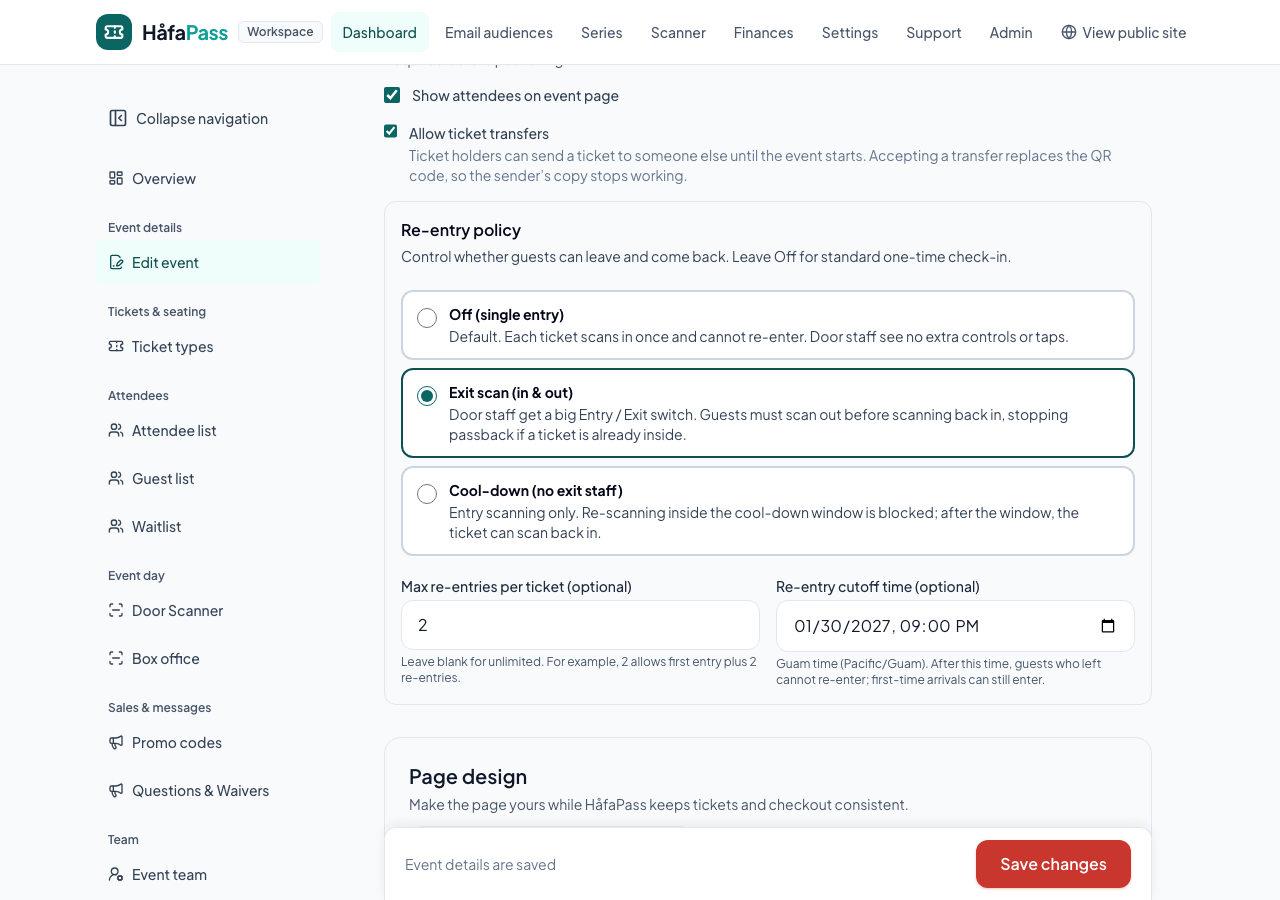
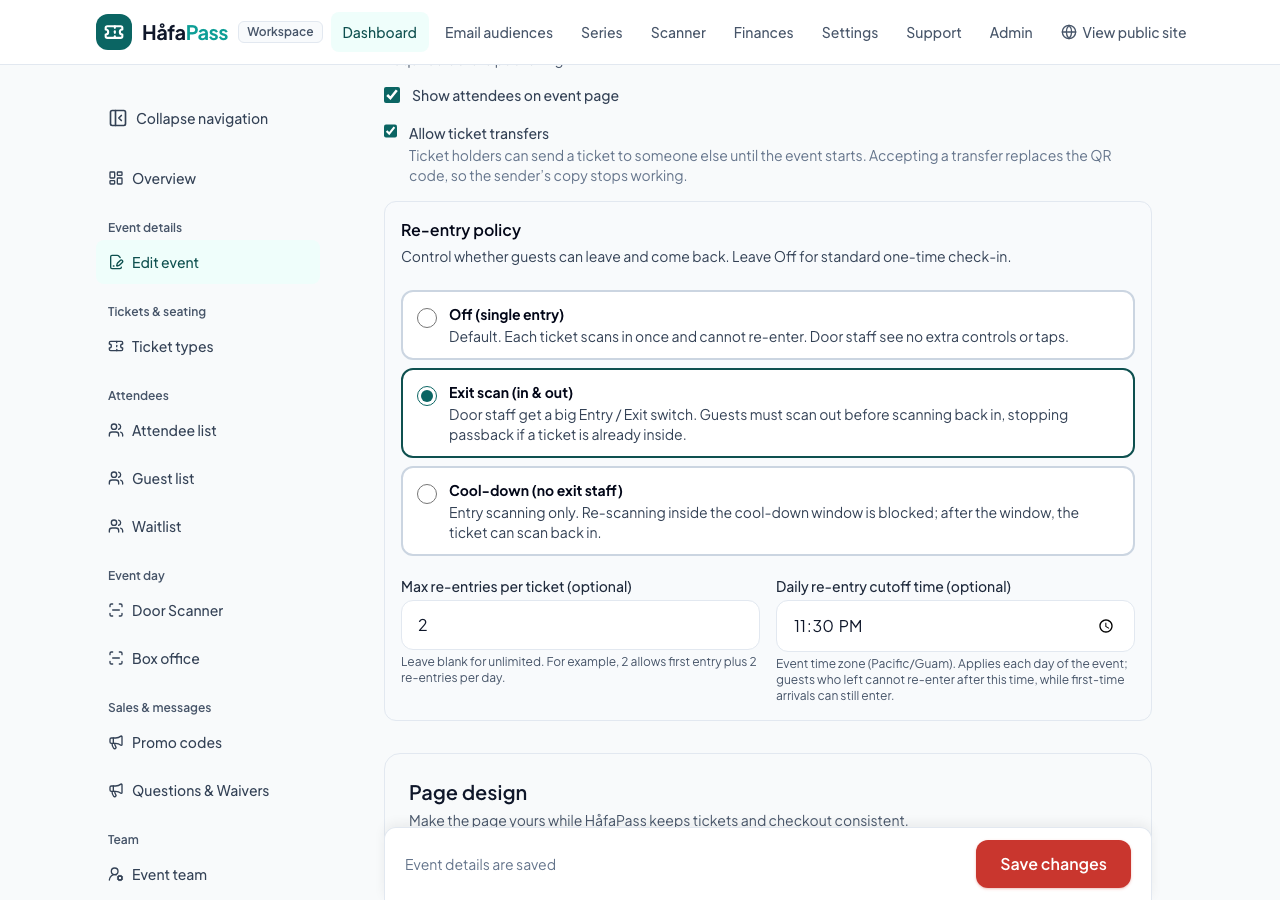
Finish PR #242 round-1 fixes: PG16 schema dump, sanitized SQL, refreshed QA screenshots

Changed region(s): [[0.5938, 0.6222, 0.875, 0.7778], [0.3125, 0.84, 0.7188, 0.9333]]

diff --git a/hafapass_frontend/src/pages/dashboard/ScannerPage.reEntry.test.jsx b/hafapass_frontend/src/pages/dashboard/ScannerPage.reEntry.test.jsx
@@ -244,6 +244,7 @@ describe('ScannerPage re-entry UX', () => {
   })
 
   it('shows live headcount formatted cleanly (including 9,999), per-day pills, and lead override for scanner leads', async () => {
+    const today = serviceDayString(Date.now(), { timezone: 'Pacific/Guam' })
     const manifest = await signedManifest(eventId, [{
       ticket_id: 201, state: 'admitted', occupancy_state: 'inside',
       attendee_name: 'Aleksandra Wiśniewska-Kowalczyk', ticket_type: '2-Day Pass',
@@ -262,8 +263,8 @@ describe('ScannerPage re-entry UX', () => {
           counts: {
             admitted: 9999, remaining: 1, conflicts: 1, rejected: 0, live_headcount: 9999,
             headcount_by_day: [
-              { day: '2027-01-30', label: 'Jan 30, 2027', headcount: 4200 },
-              { day: '2027-01-31', label: 'Jan 31, 2027', headcount: 9999 },
+              { day: '2026-01-30', label: 'Jan 30, 2026', entries: 4200, headcount: 4200 },
+              { day: today, label: 'Today', entries: 9999, headcount: 9999 },
             ],
           },
           flagged_conflicts: [{
@@ -290,7 +291,8 @@ describe('ScannerPage re-entry UX', () => {
 
     render(<ScannerPage />)
     expect(await screen.findByTestId('scanner-live-headcount')).toHaveTextContent('9,999')
-    expect(screen.getByText(/Jan 30, 2027: 4,200 entered/)).toBeInTheDocument()
+    expect(screen.getByText(/Jan 30, 2026: 4,200 entered/)).toBeInTheDocument()
+    expect(screen.getByText(/Today: 9,999 inside/)).toBeInTheDocument()
     expect(screen.getByText(/Flagged offline conflicts \(1\)/)).toBeInTheDocument()
 
     const user = userEvent.setup()
@@ -344,8 +346,9 @@ describe('ScannerPage re-entry UX', () => {
 
     render(<ScannerPage />)
     const tile = await screen.findByTestId('scanner-live-headcount')
-    expect(tile).toHaveTextContent('Entered')
-    expect(tile).not.toHaveTextContent('Inside now')
+    expect(tile).toHaveTextContent('42')
+    expect(tile.parentElement).toHaveTextContent('Entered')
+    expect(tile.parentElement).not.toHaveTextContent('Inside now')
 
     const user = userEvent.setup()
     await enterCode(user, 'qr-301', 'Check in ticket')

diff --git a/hafapass_frontend/e2e/demo-staff.spec.js b/hafapass_frontend/e2e/demo-staff.spec.js
@@ -26,6 +26,7 @@ test('box office demo completes cash and provides ticket delivery actions', asyn
   await page.getByRole('button', { name: 'Send tickets' }).click()
   await expect(page.getByText('Ticket email queued for player@example.invalid.')).toBeVisible()
 })
+
 for (const viewport of [{ width: 390, height: 844 }, { width: 1280, height: 900 }]) {
   test.describe(`demo staff screens at ${viewport.width}px`, () => {
     test.use({ viewport })

diff --git a/hafapass_frontend/src/ServiceCheck.accountTransition.test.jsx b/hafapass_frontend/src/ServiceCheck.accountTransition.test.jsx
@@ -129,6 +129,7 @@ describe('scanner authorization through actual service and auth boundaries', () 
       credential_hash: await sha256Hex('synthetic-private-qr'),
     }
     await saveVerifiedManifest(await signedManifest(eventId, [reEntryTicket], {
+      version: 2,
       schema_version: 2,
       event: { id: eventId, title: 'Re-entry outage check', timezone: 'Pacific/Guam', re_entry_mode: 'exit_scan' },
     }))

diff --git a/hafapass_frontend/src/demo/handlers/re-entry.js b/hafapass_frontend/src/demo/handlers/re-entry.js
@@ -65,7 +65,7 @@ function initReEntryState(state) {
     event101.re_entry_mode = 'exit_scan'
     event101.re_entry_max_count = 2
     event101.re_entry_cutoff_at = null
-    event101.re_entry_cutoff_time = '21:00'
+    event101.re_entry_cutoff_time = '23:30'
     event101.re_entry_cooldown_minutes = null
   }
   const event102 = staff.events.find(e => e.id === 102)

diff --git a/hafapass_api/app/services/admissions/re_entry_report.rb b/hafapass_api/app/services/admissions/re_entry_report.rb
@@ -57,137 +57,146 @@ module Admissions
       overall.merge(by_day: by_day).merge(policy_metadata)
     end
 
-    def sql_days(target_event, ticket_ids:, event_title:, zone:)
-      return [] if !ticket_ids.nil? && ticket_ids.empty?
+    BASE_SQL = <<~SQL
+      WITH relevant_actions AS (
+        SELECT
+          a.id,
+          a.ticket_id,
+          a.kind,
+          a.result,
+          a.reason_code,
+          a.occurred_at,
+          a.received_at,
+          COALESCE(
+            a.occupancy_day,
+            (((a.occurred_at AT TIME ZONE 'UTC') AT TIME ZONE :tz_name) - (:rollover_hours * INTERVAL '1 hour'))::date
+          ) AS day,
+          CASE
+            WHEN a.result = :accepted AND a.kind = :admit AND NOT EXISTS (
+              SELECT 1 FROM admission_actions rev
+              WHERE rev.reverses_action_id = a.id
+                AND rev.kind = :reverse
+                AND rev.result = :accepted
+            ) THEN 'inside'
+            WHEN a.result = :accepted AND a.kind = :exit_kind THEN 'outside'
+            WHEN a.result = :accepted AND a.kind = :override AND a.reason_code = 'lead_override_admitted' THEN 'inside'
+            WHEN a.result = :accepted AND a.kind = :override AND a.reason_code = 'lead_override_cleared' THEN 'outside'
+            ELSE NULL
+          END AS target_state
+        FROM admission_actions a
+        WHERE a.event_id = :event_id
+          %<ticket_clause>s
+      ),
+      state_steps AS (
+        SELECT
+          day,
+          occurred_at,
+          received_at,
+          id,
+          CASE
+            WHEN ticket_id IS NULL THEN 0
+            WHEN target_state = 'inside' AND COALESCE(
+              LAG(target_state) OVER (
+                PARTITION BY day, ticket_id
+                ORDER BY occurred_at ASC, received_at ASC, id ASC
+              ), 'outside'
+            ) <> 'inside' THEN 1
+            WHEN target_state = 'outside' AND COALESCE(
+              LAG(target_state) OVER (
+                PARTITION BY day, ticket_id
+                ORDER BY occurred_at ASC, received_at ASC, id ASC
+              ), 'outside'
+            ) = 'inside' THEN -1
+            ELSE 0
+          END AS delta
+        FROM relevant_actions
+        WHERE target_state IS NOT NULL
+      ),
+      running AS (
+        SELECT
+          day,
+          occurred_at,
+          received_at,
+          id,
+          SUM(delta) OVER (
+            PARTITION BY day
+            ORDER BY occurred_at ASC, received_at ASC, id ASC
+            ROWS BETWEEN UNBOUNDED PRECEDING AND CURRENT ROW
+          ) AS running_inside
+        FROM state_steps
+      ),
+      peaks AS (
+        SELECT DISTINCT ON (day)
+          day,
+          GREATEST(running_inside, 0) AS peak_headcount,
+          CASE WHEN running_inside > 0 THEN occurred_at ELSE NULL END AS peak_headcount_at
+        FROM running
+        ORDER BY day, running_inside DESC, occurred_at ASC, received_at ASC, id ASC
+      ),
+      day_totals AS (
+        SELECT
+          day,
+          COUNT(*) FILTER (WHERE result = :accepted AND kind = :admit AND target_state = 'inside' AND reason_code <> 're_entered') AS entries,
+          COUNT(*) FILTER (WHERE result = :accepted AND kind = :exit_kind) AS exits,
+          COUNT(*) FILTER (WHERE result = :accepted AND kind = :admit AND target_state = 'inside' AND reason_code = 're_entered') AS re_entries,
+          COUNT(*) FILTER (WHERE result = :accepted AND kind = :override) AS overrides,
+          COUNT(*) FILTER (WHERE result = :conflict) AS conflicts_count
+        FROM relevant_actions
+        GROUP BY day
+      ),
+      final_inside AS (
+        SELECT day, GREATEST(SUM(delta), 0) AS current_headcount
+        FROM state_steps
+        GROUP BY day
+      )
+      SELECT
+        t.day,
+        t.entries,
+        t.exits,
+        t.re_entries,
+        t.overrides,
+        t.conflicts_count,
+        COALESCE(f.current_headcount, 0) AS current_headcount,
+        COALESCE(p.peak_headcount, 0) AS peak_headcount,
+        p.peak_headcount_at
+      FROM day_totals t
+      LEFT JOIN final_inside f ON f.day = t.day
+      LEFT JOIN peaks p ON p.day = t.day
+      ORDER BY t.day ASC
+    SQL
+    SQL_ALL_TICKETS = format(BASE_SQL, ticket_clause: "").freeze
+    SQL_FILTERED_TICKETS = format(BASE_SQL, ticket_clause: "AND a.ticket_id IN (:ticket_ids)").freeze
 
+    def sql_days(target_event, ticket_ids:, event_title:, zone:)
       conn = ActiveRecord::Base.connection
-      tz_name = conn.quote(zone.tzinfo.name)
-      rollover_hours = target_event.re_entry_rollover_hour.to_i
-      ticket_filter = if ticket_ids.nil?
-        ""
+      binds = {
+        tz_name: zone.tzinfo.name,
+        rollover_hours: target_event.re_entry_rollover_hour.to_i,
+        event_id: target_event.id.to_i,
+        admit: AdmissionAction.kinds.fetch("admit"),
+        reverse: AdmissionAction.kinds.fetch("reverse"),
+        exit_kind: AdmissionAction.kinds.fetch("exit"),
+        override: AdmissionAction.kinds.fetch("override"),
+        accepted: AdmissionAction.results.fetch("accepted"),
+        conflict: AdmissionAction.results.fetch("conflict")
+      }
+
+      template = if ticket_ids.nil?
+        SQL_ALL_TICKETS
       else
-        ids = Array(ticket_ids).map(&:to_i).uniq
+        ids = if ticket_ids.is_a?(ActiveRecord::Relation)
+          ticket_ids.pluck(:id)
+        else
+          Array(ticket_ids).map { |v| v.respond_to?(:id) ? v.id : v.to_i }
+        end.uniq
         return [] if ids.empty?
 
-        "AND a.ticket_id IN (#{ids.join(',')})"
+        binds[:ticket_ids] = ids
+        SQL_FILTERED_TICKETS
       end
 
-      admit = AdmissionAction.kinds.fetch("admit")
-      reverse = AdmissionAction.kinds.fetch("reverse")
-      exit_kind = AdmissionAction.kinds.fetch("exit")
-      override = AdmissionAction.kinds.fetch("override")
-      accepted = AdmissionAction.results.fetch("accepted")
-      conflict = AdmissionAction.results.fetch("conflict")
-
-      sql = <<~SQL
-        WITH relevant_actions AS (
-          SELECT
-            a.id,
-            a.ticket_id,
-            a.kind,
-            a.result,
-            a.reason_code,
-            a.occurred_at,
-            a.received_at,
-            COALESCE(
-              a.occupancy_day,
-              (((a.occurred_at AT TIME ZONE 'UTC') AT TIME ZONE #{tz_name}) - INTERVAL '#{rollover_hours} hours')::date
-            ) AS day,
-            CASE
-              WHEN a.result = #{accepted} AND a.kind = #{admit} AND NOT EXISTS (
-                SELECT 1 FROM admission_actions rev
-                WHERE rev.reverses_action_id = a.id
-                  AND rev.kind = #{reverse}
-                  AND rev.result = #{accepted}
-              ) THEN 'inside'
-              WHEN a.result = #{accepted} AND a.kind = #{exit_kind} THEN 'outside'
-              WHEN a.result = #{accepted} AND a.kind = #{override} AND a.reason_code = 'lead_override_admitted' THEN 'inside'
-              WHEN a.result = #{accepted} AND a.kind = #{override} AND a.reason_code = 'lead_override_cleared' THEN 'outside'
-              ELSE NULL
-            END AS target_state
-          FROM admission_actions a
-          WHERE a.event_id = #{target_event.id.to_i}
-            #{ticket_filter}
-        ),
-        state_steps AS (
-          SELECT
-            day,
-            occurred_at,
-            received_at,
-            id,
-            CASE
-              WHEN ticket_id IS NULL THEN 0
-              WHEN target_state = 'inside' AND COALESCE(
-                LAG(target_state) OVER (
-                  PARTITION BY day, ticket_id
-                  ORDER BY occurred_at ASC, received_at ASC, id ASC
-                ), 'outside'
-              ) <> 'inside' THEN 1
-              WHEN target_state = 'outside' AND COALESCE(
-                LAG(target_state) OVER (
-                  PARTITION BY day, ticket_id
-                  ORDER BY occurred_at ASC, received_at ASC, id ASC
-                ), 'outside'
-              ) = 'inside' THEN -1
-              ELSE 0
-            END AS delta
-          FROM relevant_actions
-          WHERE target_state IS NOT NULL
-        ),
-        running AS (
-          SELECT
-            day,
-            occurred_at,
-            received_at,
-            id,
-            SUM(delta) OVER (
-              PARTITION BY day
-              ORDER BY occurred_at ASC, received_at ASC, id ASC
-              ROWS BETWEEN UNBOUNDED PRECEDING AND CURRENT ROW
-            ) AS running_inside
-          FROM state_steps
-        ),
-        peaks AS (
-          SELECT DISTINCT ON (day)
-            day,
-            GREATEST(running_inside, 0) AS peak_headcount,
-            CASE WHEN running_inside > 0 THEN occurred_at ELSE NULL END AS peak_headcount_at
-          FROM running
-          ORDER BY day, running_inside DESC, occurred_at ASC, received_at ASC, id ASC
-        ),
-        day_totals AS (
-          SELECT
-            day,
-            COUNT(*) FILTER (WHERE result = #{accepted} AND kind = #{admit} AND target_state = 'inside' AND reason_code <> 're_entered') AS entries,
-            COUNT(*) FILTER (WHERE result = #{accepted} AND kind = #{exit_kind}) AS exits,
-            COUNT(*) FILTER (WHERE result = #{accepted} AND kind = #{admit} AND target_state = 'inside' AND reason_code = 're_entered') AS re_entries,
-            COUNT(*) FILTER (WHERE result = #{accepted} AND kind = #{override}) AS overrides,
-            COUNT(*) FILTER (WHERE result = #{conflict}) AS conflicts_count
-          FROM relevant_actions
-          GROUP BY day
-        ),
-        final_inside AS (
-          SELECT day, GREATEST(SUM(delta), 0) AS current_headcount
-          FROM state_steps
-          GROUP BY day
-        )
-        SELECT
-          t.day,
-          t.entries,
-          t.exits,
-          t.re_entries,
-          t.overrides,
-          t.conflicts_count,
-          COALESCE(f.current_headcount, 0) AS current_headcount,
-          COALESCE(p.peak_headcount, 0) AS peak_headcount,
-          p.peak_headcount_at
-        FROM day_totals t
-        LEFT JOIN final_inside f ON f.day = t.day
-        LEFT JOIN peaks p ON p.day = t.day
-        ORDER BY t.day ASC
-      SQL
-
-      conn.select_all(sql).map do |row|
+      sanitized = ActiveRecord::Base.sanitize_sql_array([template, binds])
+      conn.select_all(sanitized).map do |row|
         day = row["day"].is_a?(Date) ? row["day"] : Date.iso8601(row["day"].to_s)
         peak_raw = row["peak_headcount_at"]
         peak_time = if peak_raw.is_a?(Time) || peak_raw.is_a?(ActiveSupport::TimeWithZone)

diff --git a/hafapass_api/db/schema.rb b/hafapass_api/db/schema.rb
@@ -10,7 +10,7 @@
 #
 # It's strongly recommended that you check this file into your version control system.
 
-ActiveRecord::Schema[8.1].define(version: 2026_11_24_200200) do
+ActiveRecord::Schema[8.1].define(version: 2026_11_24_210100) do
   # These are extensions that must be enabled in order to support this database
   enable_extension "pg_catalog.plpgsql"
 
@@ -817,6 +817,7 @@ ActiveRecord::Schema[8.1].define(version: 2026_11_24_200200) do
     t.integer "re_entry_max_count"
     t.datetime "re_entry_cutoff_at"
     t.integer "re_entry_cooldown_minutes"
+    t.string "re_entry_cutoff_time"
     t.index "lower(translate((venue_city)::text, 'åàáâäãāéèêëēíìîïīóòôöõōúùûüūñÅÀÁÂÄÃĀÉÈÊËĒÍÌÎÏĪÓÒÔÖÕŌÚÙÛÜŪÑ'::text, 'aaaaaaaeeeeeiiiiioooooouuuuunaaaaaaaeeeeeiiiiioooooouuuuun'::text))", name: "index_events_on_folded_venue_city"
     t.index ["live_money_proof_candidate"], name: "index_events_on_live_money_proof_candidate"
     t.index ["organization_id"], name: "index_events_on_organization_id"
@@ -833,8 +834,9 @@ ActiveRecord::Schema[8.1].define(version: 2026_11_24_200200) do
     t.check_constraint "max_capacity IS NULL OR max_capacity > 0", name: "events_capacity_positive"
     t.check_constraint "policy_hold_at IS NULL AND policy_hold_scope IS NULL AND policy_hold_reason IS NULL OR policy_hold_at IS NOT NULL AND (policy_hold_scope::text = ANY (ARRAY['sales'::character varying::text, 'hidden'::character varying::text])) AND char_length(btrim(policy_hold_reason)) > 0", name: "events_policy_hold_consistent"
     t.check_constraint "re_entry_cooldown_minutes IS NULL OR re_entry_cooldown_minutes > 0", name: "events_re_entry_cooldown_positive"
+    t.check_constraint "re_entry_cutoff_time IS NULL OR re_entry_cutoff_time::text ~ '^([01][0-9]|2[0-3]):[0-5][0-9]$'::text", name: "events_re_entry_cutoff_time_valid"
     t.check_constraint "re_entry_max_count IS NULL OR re_entry_max_count > 0", name: "events_re_entry_max_count_positive"
-    t.check_constraint "re_entry_mode::text = ANY (ARRAY['off'::character varying::text, 'exit_scan'::character varying::text, 'cooldown'::character varying::text])", name: "events_re_entry_mode_valid"
+    t.check_constraint "re_entry_mode::text = ANY (ARRAY['off'::character varying, 'exit_scan'::character varying, 'cooldown'::character varying]::text[])", name: "events_re_entry_mode_valid"
   end
 
   create_table "fee_change_notices", force: :cascade do |t|
@@ -2756,7 +2758,7 @@ ActiveRecord::Schema[8.1].define(version: 2026_11_24_200200) do
     t.index ["retention_anonymized_at"], name: "index_tickets_on_retention_anonymized_at"
     t.index ["ticket_type_id"], name: "index_tickets_on_ticket_type_id"
     t.check_constraint "display_credential_version > 0", name: "tickets_display_version_positive"
-    t.check_constraint "occupancy_state::text = ANY (ARRAY['outside'::character varying::text, 'inside'::character varying::text])", name: "tickets_occupancy_state_valid"
+    t.check_constraint "occupancy_state::text = ANY (ARRAY['outside'::character varying, 'inside'::character varying]::text[])", name: "tickets_occupancy_state_valid"
     t.check_constraint "parent_ticket_id IS NULL OR order_item_id IS NULL", name: "chk_tickets_pass_child_no_order_item"
     t.check_constraint "re_entry_count >= 0", name: "tickets_re_entry_count_non_negative"
     t.check_constraint "scan_credential_version > 0", name: "tickets_scan_version_positive"

diff --git a/hafapass_api/spec/requests/api/v1/organizer/re_entry_spec.rb b/hafapass_api/spec/requests/api/v1/organizer/re_entry_spec.rb
@@ -593,14 +593,17 @@ RSpec.describe "Event re-entry, live headcount, lead override, and reports", typ
       manifest = fetch_manifest(gate)
 
       # Day 1: enter at 18:00, exit at 19:00, re-entry at 21:30 -> blocked by 21:00 cutoff
-      sync_actions(gate, [scan_payload(ticket: ticket, manifest: manifest, sequence: 1, occurred_at: Time.zone.parse("2027-01-30T18:00:00+10:00"))])
-      sync_actions(gate, [scan_payload(ticket: ticket, manifest: manifest, sequence: 2, kind: "exit", occurred_at: Time.zone.parse("2027-01-30T19:00:00+10:00"))])
+      sync_actions(gate, [scan_payload(ticket: ticket, manifest: manifest, sequence: 1, occurred_at: Time.current)])
+      travel_to(Time.zone.parse("2027-01-30T19:00:00+10:00"))
+      day1_exit = sync_actions(gate, [scan_payload(ticket: ticket, manifest: manifest, sequence: 2, kind: "exit", occurred_at: Time.current)])
+      expect(day1_exit.dig("results", 0)).to include("result" => "accepted", "reason_code" => "exited")
       travel_to(Time.zone.parse("2027-01-30T21:30:00+10:00"))
       day1_late = sync_actions(gate, [scan_payload(ticket: ticket, manifest: manifest, sequence: 3, kind: "admit", occurred_at: Time.current)])
       expect(day1_late.dig("results", 0)).to include("result" => "rejected", "reason_code" => "re_entry_cutoff_passed")
 
       # Day 2: enter at 10:00, exit at 12:00, re-enter at 14:00 -> ALLOWED (before Day 2's 21:00 cutoff!)
       travel_to(Time.zone.parse("2027-01-31T10:00:00+10:00"))
+      gate = register_device(user: owner, identifier: "cutoff-multi", name: "Main Gate")
       manifest2 = fetch_manifest(gate)
       d2_in = sync_actions(gate, [scan_payload(ticket: ticket, manifest: manifest2, sequence: 4, kind: "admit", occurred_at: Time.current)])
       expect(d2_in.dig("results", 0)).to include("result" => "accepted", "reason_code" => "admitted")
